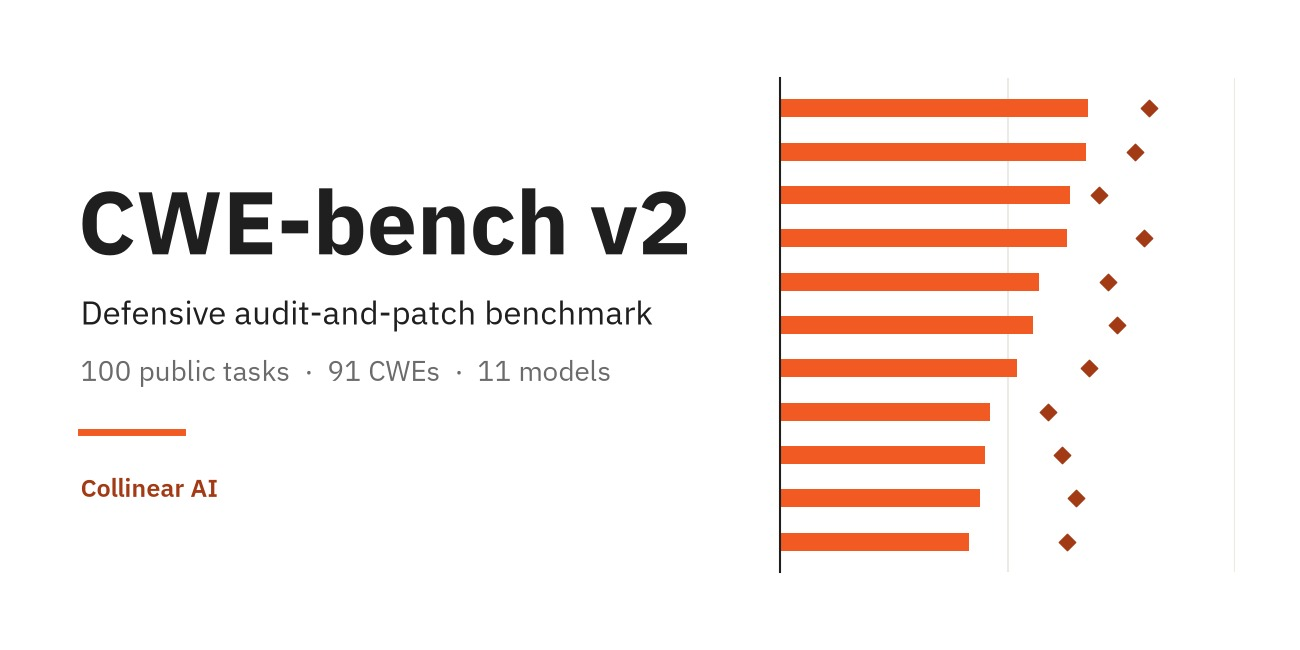
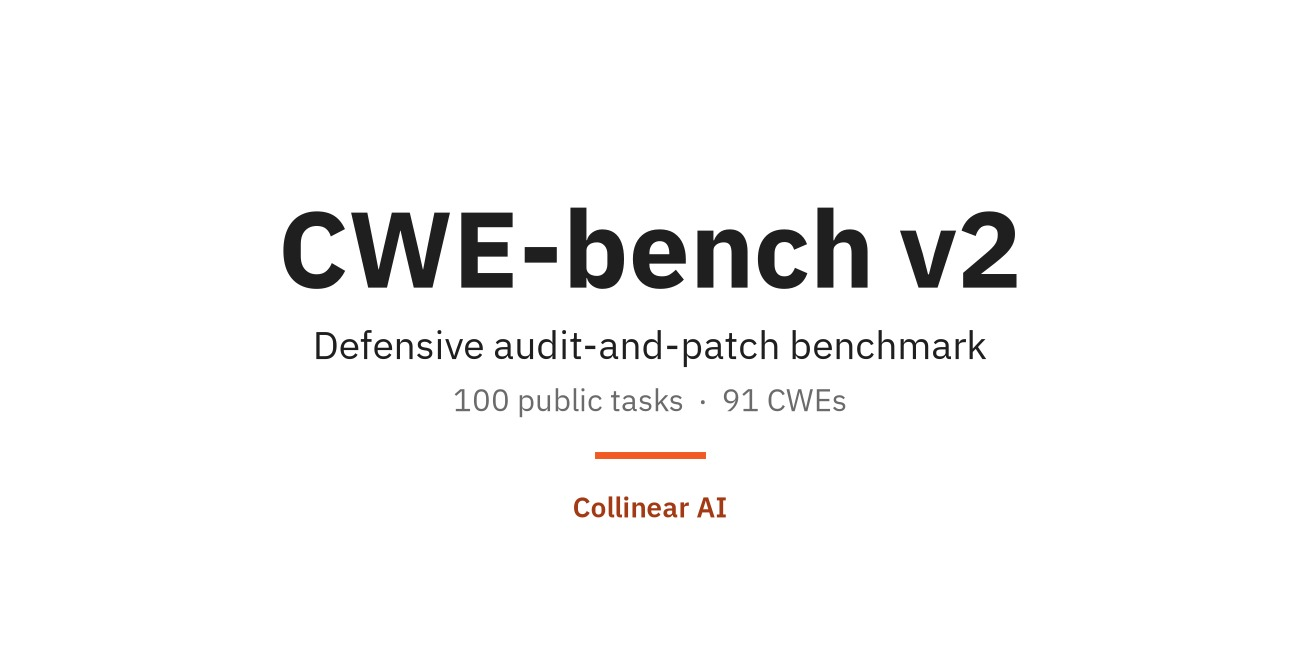
cwe-bench: replace the results image with the live leaderboard embed; text-only thumbnail
The leaderboard Space now carries the per-model results and updates as models are added, so
the static results image is removed. Thumbnail drops the model count and chart.

diff --git a/cwe-bench.md b/cwe-bench.md
@@ -33,14 +33,6 @@ Every task was also reviewed by hand. Open-sourcing the set is part of the same 
 
 ## Results
 
-![CWE-bench v2 results: pass@1 and pass@4 for 11 models, with cost per rollout](/blog/assets/cwe-bench/results.png)
-
-Of the 11 models evaluated, Gemini 4 Argon leads with 67.8% pass@1 and 81.0% pass@4, just ahead of Claude Opus 5.5 (67.2% pass@1, 78.0% pass@4). 95 tasks are solved by at least one model, an indication that the tasks are indeed solvable. However, even the leader fails 19% of the set on every attempt, so the long tail is far from solved. The public set, the grader and the harness are open. Run your model, and tell us where it stands.
-
-![CWE-bench v2: pass@1 against average cost per rollout, with the Pareto frontier](/blog/assets/cwe-bench/pareto.png)
-
-On cost, DeepSeek V4.1 Flash (1017), Claude Opus 5.5 and Gemini 4 Argon form the Pareto frontier: DeepSeek reaches 57.0% pass@1 at about six cents per rollout, Opus adds ten points at $1.83, and Gemini edges ahead at $3.92.
-
 The [CWE-bench leaderboard](https://huggingface.co/spaces/collinear-ai/cwe-bench-leaderboard) on the Hub is updated as new models are evaluated:
 
 <iframe
@@ -49,6 +41,12 @@ The [CWE-bench leaderboard](https://huggingface.co/spaces/collinear-ai/cwe-bench
   width="100%"
   height="560px"
 ></iframe>
+
+Of the 11 models evaluated, Gemini 4 Argon leads with 67.8% pass@1 and 81.0% pass@4, just ahead of Claude Opus 5.5 (67.2% pass@1, 78.0% pass@4). 95 tasks are solved by at least one model, an indication that the tasks are indeed solvable. However, even the leader fails 19% of the set on every attempt, so the long tail is far from solved. The public set, the grader and the harness are open. Run your model, and tell us where it stands.
+
+![CWE-bench v2: pass@1 against average cost per rollout, with the Pareto frontier](/blog/assets/cwe-bench/pareto.png)
+
+On cost, DeepSeek V4.1 Flash (1017), Claude Opus 5.5 and Gemini 4 Argon form the Pareto frontier: DeepSeek reaches 57.0% pass@1 at about six cents per rollout, Opus adds ten points at $1.83, and Gemini edges ahead at $3.92.
 
 ## Run it from the Hub
 
